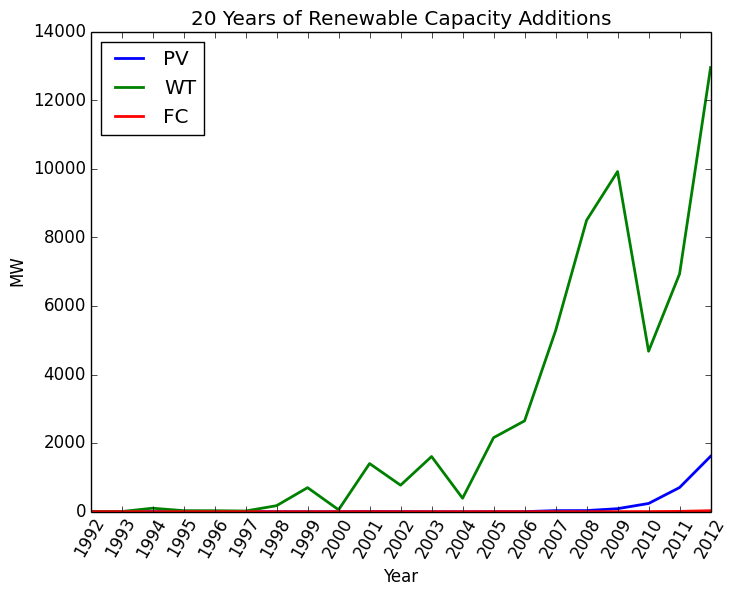
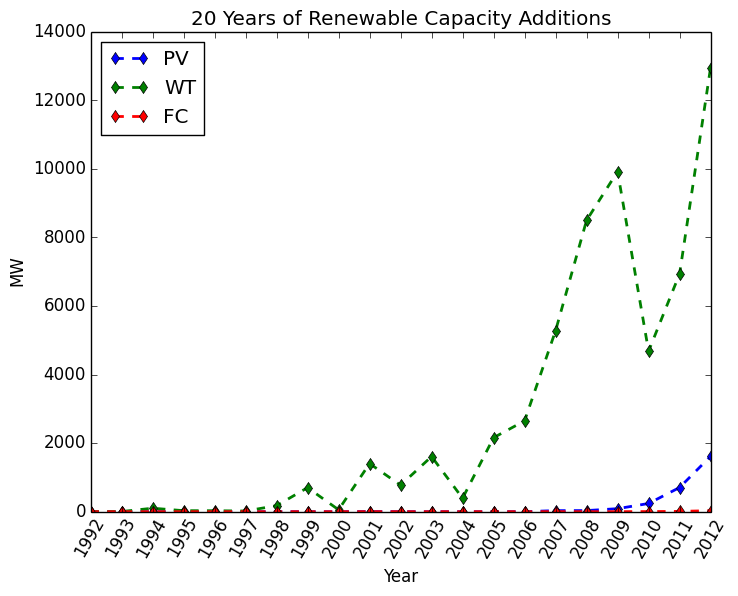
edits, yo

diff --git a/EIA_860_Graph.py b/EIA_860_Graph.py
@@ -8,7 +8,6 @@ Created on Sun Feb 15 15:21:04 2015
 import numpy as np
 import pandas as pd
 from matplotlib import pyplot as plt
-from Charting_v2 import *
 import os
 
 # configure run
@@ -21,7 +20,7 @@ base_data = pd.read_excel(r'./GeneratorY2012.xls', 'Operable', skiprows=1)
 #print list(base_data.columns.values)
 
 
-# clean data based on desired analysis parameters
+
 working = base_data
 working = working[working['Operating Year'] > 1992]
 
@@ -30,6 +29,7 @@ traditional = ['ST', 'GT', 'IC', 'CA', 'CT', 'CS', 'CC', 'HY', 'BT']
 storage = ['BA', 'CE', 'CE', 'FW', 'ES', 'CP', 'PS']
 
 renew_data = working
+trad_data = working
 
 for tech in traditional:
     renew_data = renew_data[renew_data['Prime Mover'] != tech]
@@ -37,6 +37,13 @@ for tech in traditional:
 for tech in storage:
     renew_data = renew_data[renew_data['Prime Mover'] != tech]
 
+for tech in renewables:
+    trad_data = trad_data[trad_data['Prime Mover'] != tech]
+    
+for tech in storage:
+    trad_data = trad_data[trad_data['Prime Mover'] != tech]
+
+# Renewable Generation Start
 
 capacities = pd.DataFrame(columns=renewables)
 year = 1992
@@ -63,7 +70,7 @@ renew_tech = list(capacities.columns.values)
 x = range (0,21)
 years = list(years)
 for tech in renew_tech:
-    plt.plot(x, capacities[tech], linewidth = 2, label = tech)
+    plt.plot(x, capacities[tech], linewidth = 2, label = tech, linestyle = '--', marker = 'd')
     plt.title('20 Years of Renewable Capacity Additions')
     plt.xticks(x, years, rotation = 60)
     plt.ylabel('MW')
@@ -71,6 +78,49 @@ for tech in renew_tech:
 plt.legend(loc = 2)        
 plt.savefig('20 Years of Renewable Capacity Additions.png', bbox_inches = 'tight')
 plt.close()
+
+
+
+# Traditional Generation Start
+
+capacities = pd.DataFrame(columns=traditional)
+year = 1992
+years = range(1992, 2013) 
+i = 0  
+for year in range (1992, 2013):
+    
+    current_year = trad_data[trad_data['Operating Year'] == year]    
+    
+   
+    for tech in traditional:
+
+        cap_add = current_year[current_year['Prime Mover'] == tech]
+        capacity = cap_add['Nameplate Capacity (MW)'].sum()
+        capacities.loc[i, tech] = capacity        
+
+    year = year + 1
+    i = i + 1
+
+#capacities = capacities.drop(['HA', 'HB', 'HK', 'WS'], 1)
+
+trad_tech = list(capacities.columns.values)
+
+x = range (0,21)
+years = list(years)
+for tech in trad_tech:
+    plt.plot(x, capacities[tech], linewidth = 2, label = tech)
+    plt.title('20 Years of Traditional Capacity Additions')
+    plt.xticks(x, years, rotation = 60)
+    plt.ylabel('MW')
+    plt.xlabel('Year')
+plt.legend(loc = 2)        
+plt.savefig('20 Years of Traditional Capacity Additions.png', bbox_inches = 'tight')
+plt.close()
+
+
+
+
+
 
 
 
